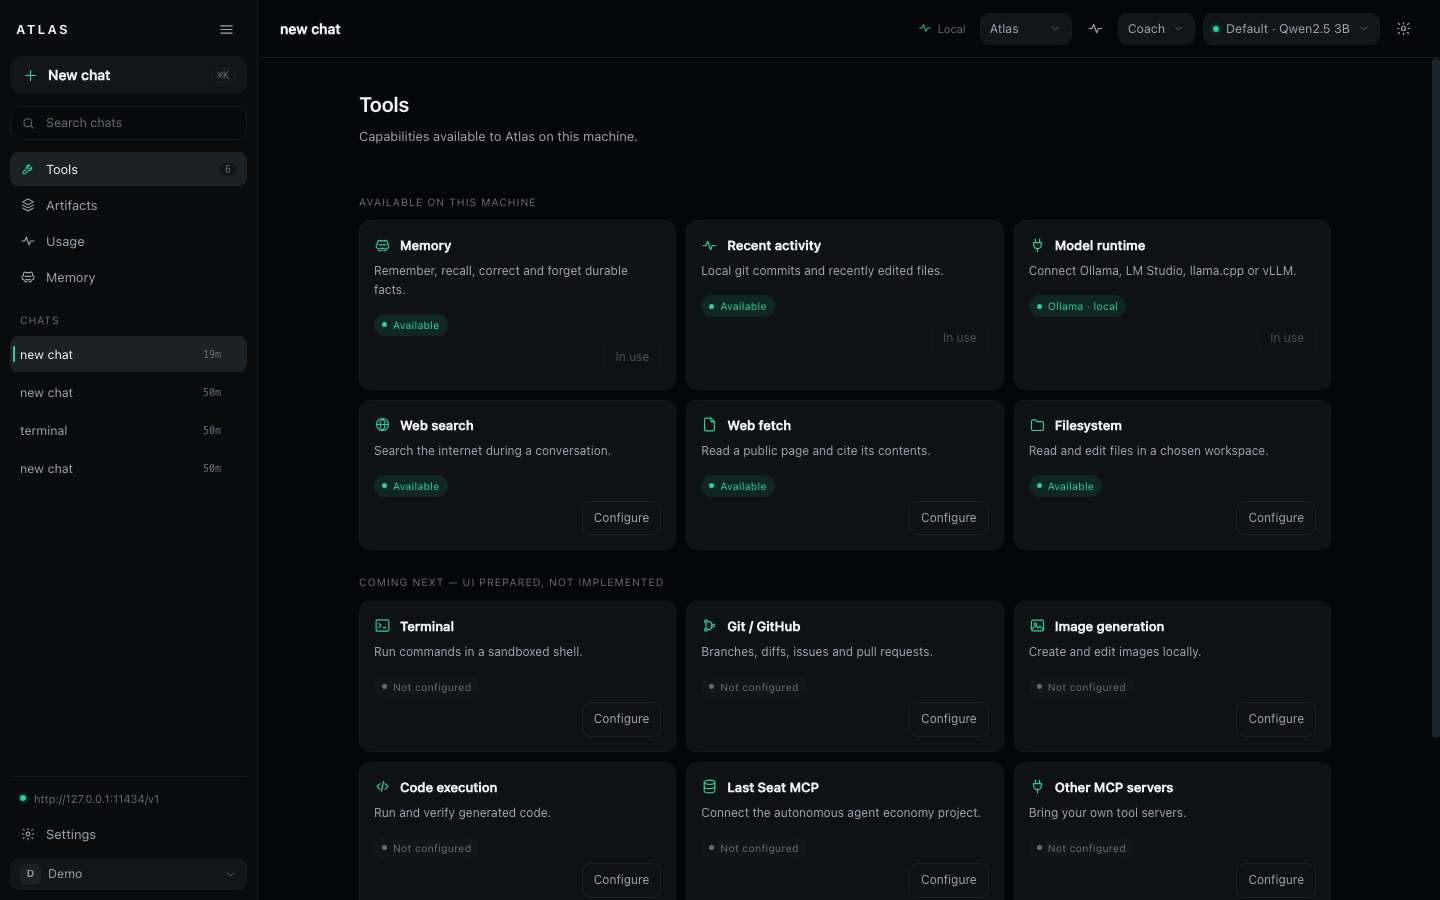
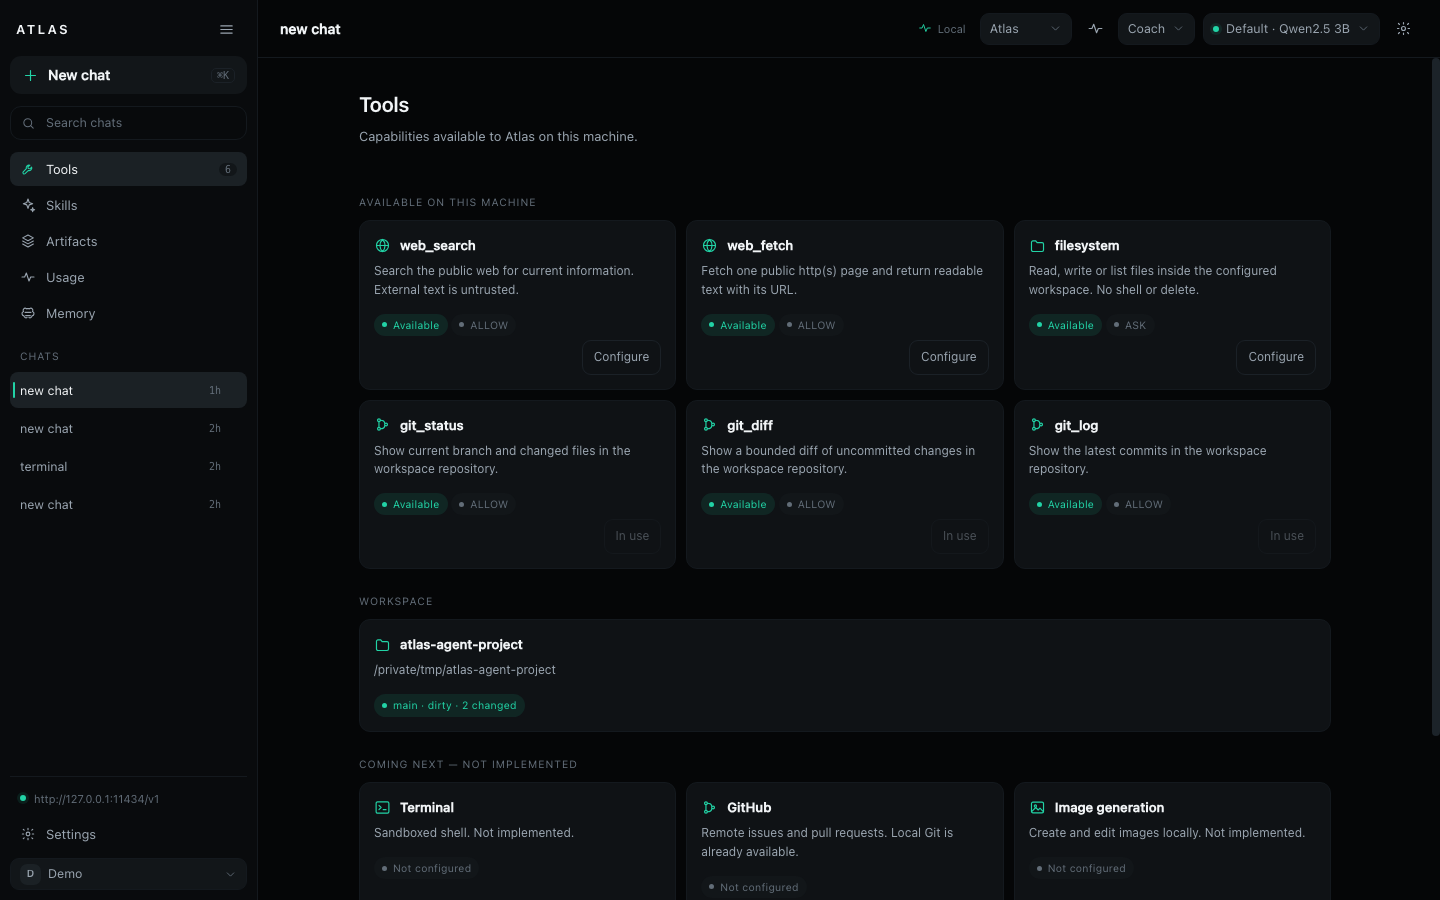
docs: agent runtime architecture, CLI and screenshots
Document the registry, skills, permissions, artifacts, workspace context and
real tool activity. Update badges and capture Tools, Skills, Artifacts and
Usage screenshots from an empty demo profile.

diff --git a/docs/agent.md b/docs/agent.md
@@ -1,0 +1,97 @@
+# Agent runtime
+
+Atlas is a small agent loop, not a chat wrapper. Everything below runs locally.
+
+## Tool registry
+
+`registry.py` is the single source of truth. A provider registers a `ToolSpec`
+with:
+
+| Field | Meaning |
+|---|---|
+| `id` | stable tool name |
+| `description` | short text shown to the model |
+| `schema` | compact JSON schema for tool arguments |
+| `availability` | callable/bool, checked at runtime |
+| `category` | web / filesystem / git / memory / … |
+| `permission` | `ALLOW`, `ASK` or `DENY` |
+| `provider` | `atlas` today; MCP/GitHub/etc. later |
+
+The same registry produces the model's tool list, `atlas tools`, the server's
+`/api/tools`, and the GUI Tools page. A new provider can call
+`registry.register(ToolSpec(...))` without touching the loop.
+
+## Real tools
+
+- `web_search` — DuckDuckGo (no key) or Brave via `ATLAS_BRAVE_KEY`
+- `web_fetch` — SSRF-safe page text with source URL
+- `filesystem` — read/write/list inside the configured workspace
+- `git_status`, `git_diff`, `git_log` — read-only local Git, no network
+
+No shell, delete, push, reset or rebase tool exists.
+
+## Skills
+
+Skills are instructions, not capabilities. Files live at
+`skills/<skill-id>/SKILL.md` with frontmatter `name`, `description`, `tags`
+and `tools`.
+
+Only name/description/tags are advertised. `skills.load_skill()` reads the
+full body only when the skill is selected by keyword match or opened in the UI.
+
+Starter skills: **web-research**, **github-engineer**, **project-explorer**,
+**personal-memory**.
+
+For very small models the server adds one bounded follow-up after a skill's
+first tool call so the workflow completes (e.g. research fetches the source it
+found; Git inspection calls status and diff).
+
+## Loop
+
+```
+request → select skill (lazy) → build compact system + workspace context
+        → model → tool calls (≤4 rounds) → structured results
+        → more tools if needed → answer → journal durable facts
+```
+
+Tool results are structured `{ok, data, error, duration_ms, permission}`.
+Errors are returned to the model as text instead of crashing the loop.
+
+## Permissions
+
+`ALLOW` runs immediately. `ASK` pauses the stream and emits a permission event;
+the GUI shows Allow/Deny and the CLI prompts on stdin. `DENY` is never
+advertised. Overrides are stored locally in `data/permissions.json`.
+
+Examples: web search ALLOW, filesystem read ALLOW, filesystem write ASK,
+future shell DENY.
+
+## Artifacts
+
+Only explicit registrations become artifacts. A filesystem write registers a
+file with its chat id; the chat shows an artifact card and the Artifacts page
+lists it with a text/image preview. Artifacts are scoped to the active profile.
+
+## Workspace context
+
+Workspaces are configured with `atlas tools configure --workspace PATH`.
+The system prompt gets one short line: root, repo name, branch and clean/dirty
+state. Git is local only — there is no GitHub API in this runtime.
+
+## Usage
+
+`data/tool_activity.jsonl` records real tool calls with success, error and
+duration. The Usage page aggregates these into small text bars. Tokens, tok/s
+and prompt tokens are labelled unavailable because the local runtime does not
+expose them; nothing is invented.
+
+## CLI
+
+```bash
+atlas tools                         # registry-driven list
+atlas tools permissions             # effective levels
+atlas tools run web_search --args '{"query":"python lists"}'
+atlas skills list | show web-research
+atlas artifacts list | show a-xxxx
+atlas workspace
+```

diff --git a/README.md b/README.md
@@ -8,7 +8,9 @@
 [![Web search](https://img.shields.io/badge/web%20search-DuckDuckGo-22d3a6)]()
 [![Web fetch](https://img.shields.io/badge/web%20fetch-SSRF%20guarded-22d3a6)]()
 [![Filesystem](https://img.shields.io/badge/filesystem-workspace%20confined-22d3a6)]()
-[![Tools](https://img.shields.io/badge/tools-3%20live-2ea44f)]()
+[![Tools](https://img.shields.io/badge/tools-6%20live-2ea44f)]()
+[![Skills](https://img.shields.io/badge/skills-4%20lazy--loaded-22d3a6)]()
+[![Permissions](https://img.shields.io/badge/permissions-ALLOW%20%2F%20ASK%20%2F%20DENY-6f42c1)]()
 
 ```
 you> I'm a first-year CS student, 8 GB M1, learning Python and C.
@@ -37,8 +39,13 @@ anywhere.
 
 | | |
 |---|---|
-| ![Tools](docs/screenshots/tools.png) | ![Settings](docs/screenshots/settings.png) |
-| Tool workspace | Themes, accents, models, tools, memory |
+| ![Tools](docs/screenshots/tools.png) | ![Skills](docs/screenshots/skills.png) |
+| Tool workspace | Lazy-loaded skills |
+
+| | |
+|---|---|
+| ![Artifacts](docs/screenshots/artifacts.png) | ![Settings](docs/screenshots/settings.png) |
+| Real artifacts with previews | Themes, models, tools, memory |
 
 ---
 
@@ -216,6 +223,24 @@ atlas net fetch https://example.com
 printf 'hello' | atlas fs write notes/hello.txt
 atlas fs read notes/hello.txt
 uv run python -m unittest discover -s tests -v   # 33 offline tests
+```
+
+---
+
+## Agent runtime
+
+Atlas now runs a bounded agent loop: select a skill, call tools, inspect
+results, call more tools, answer. Skills are instruction files in
+`skills/<id>/SKILL.md`, loaded only when needed. Tools are declared in one
+registry that drives the model, CLI, API and GUI. Writes require an explicit
+Allow; DENY tools are never advertised. See **[docs/agent.md](docs/agent.md)**.
+
+```bash
+atlas tools                              # registry-driven tool list + permissions
+atlas tools permissions
+atlas skills list | show web-research
+atlas artifacts list
+atlas workspace                          # root, repo, branch, clean/dirty
 ```
 
 ---
